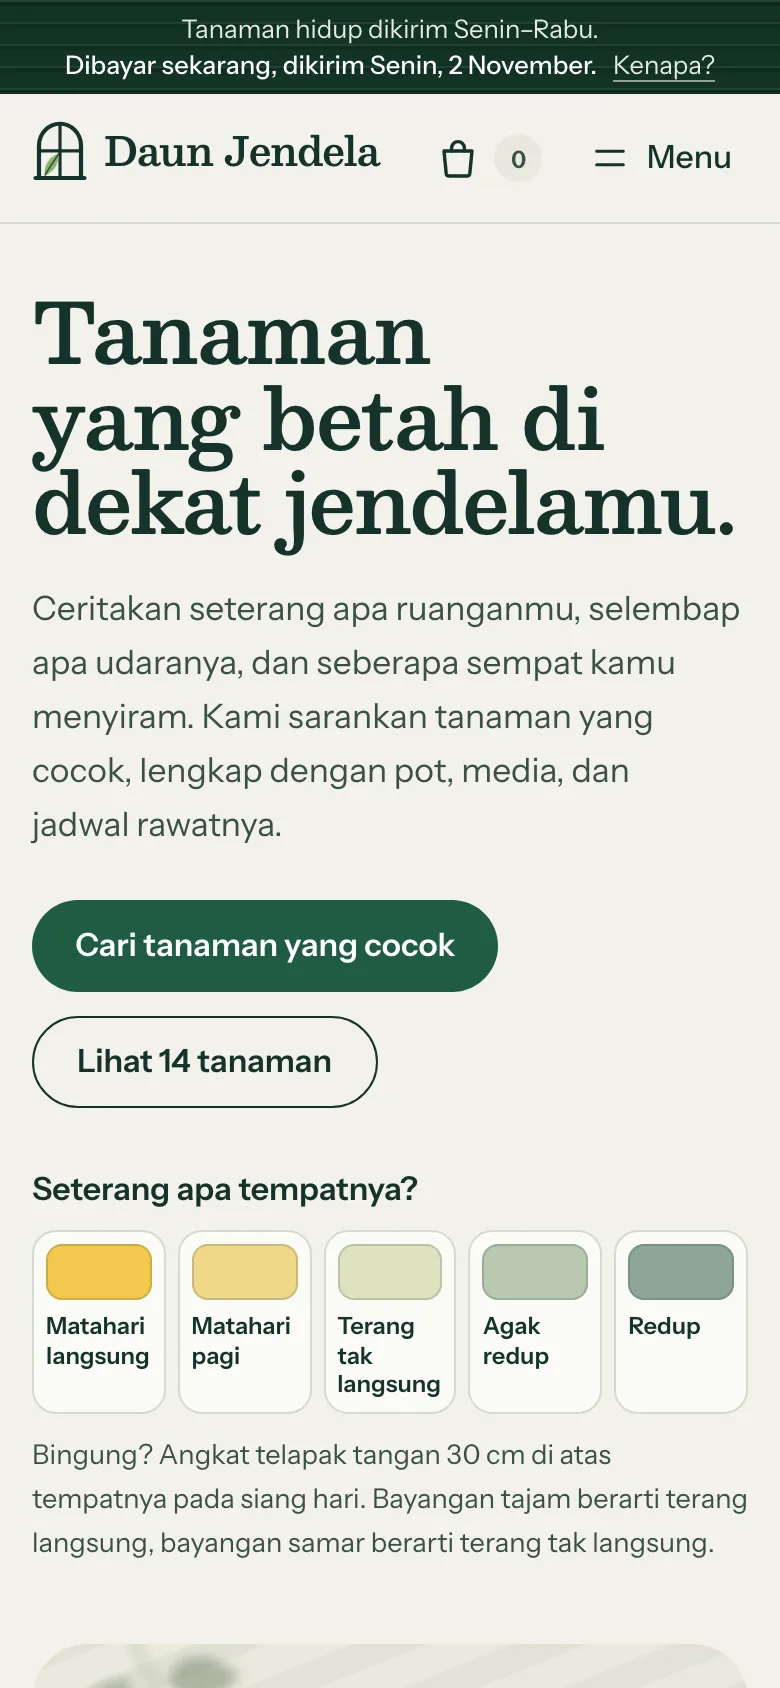
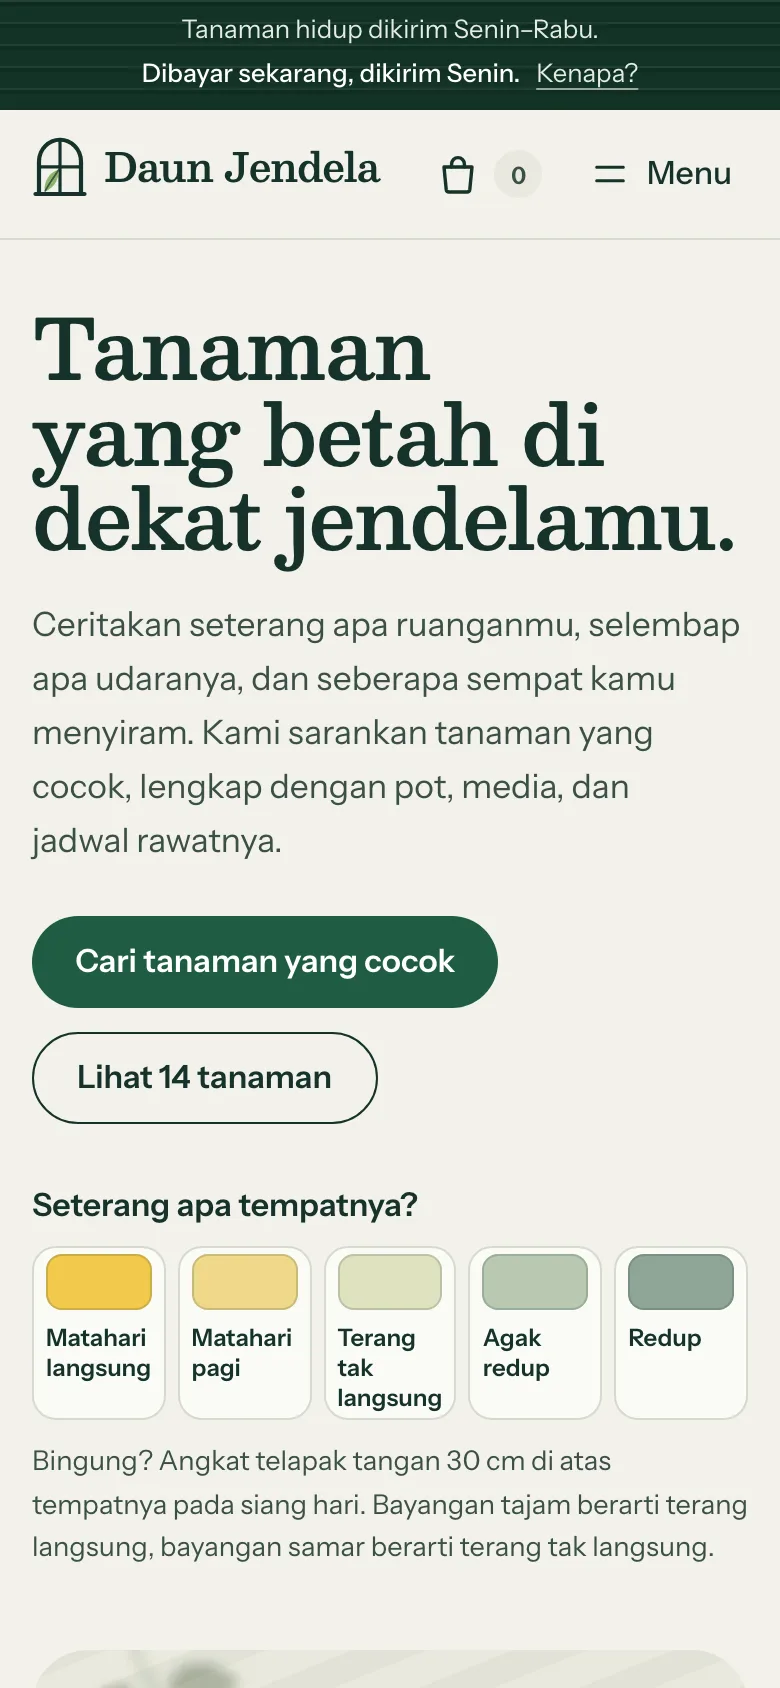
Tangkapan Daun Jendela diambil ulang tanpa tanggal kalender

diff --git a/public/images/SUMBER.md b/public/images/SUMBER.md
@@ -1,4 +1,4 @@
 # Sumber gambar
 
-- `toko/<slug>.webp`, `toko/<slug>-m.webp`: tangkapan layar potret ponsel (390×844, 2×) dari situs demo toko-<slug>.pintuweb.id, 30 Okt 2026. Isinya foto CC0/PD dan ilustrasi buatan sendiri (sumber per gambar tercatat di proyek tiap toko).
+- `toko/<slug>.webp`, `toko/<slug>-m.webp`: tangkapan layar potret ponsel (390×844, 2×) dari situs demo toko-<slug>.pintuweb.id, 30 Okt 2026. Isinya foto CC0/PD dan ilustrasi buatan sendiri (sumber per gambar tercatat di proyek tiap toko). Pengecualian: daunjendela diambil ulang 30 Okt 2026 dari build lokal demo (spanduk kirim tanpa tanggal kalender, supaya tidak basi).
 - `logo-pintuweb.png`: logo PintuWeb, disalin apa adanya dari PintuWeb/public/images/logo-pintuweb.png.
